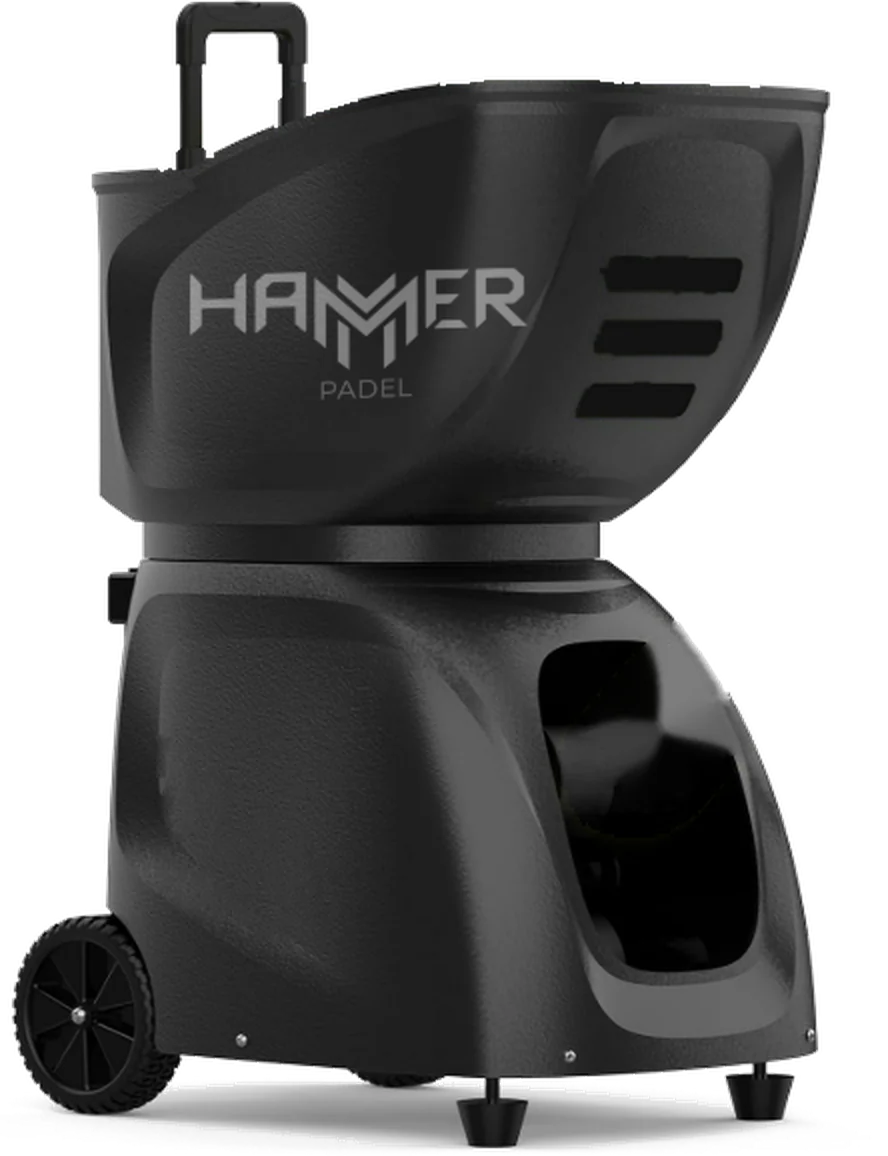
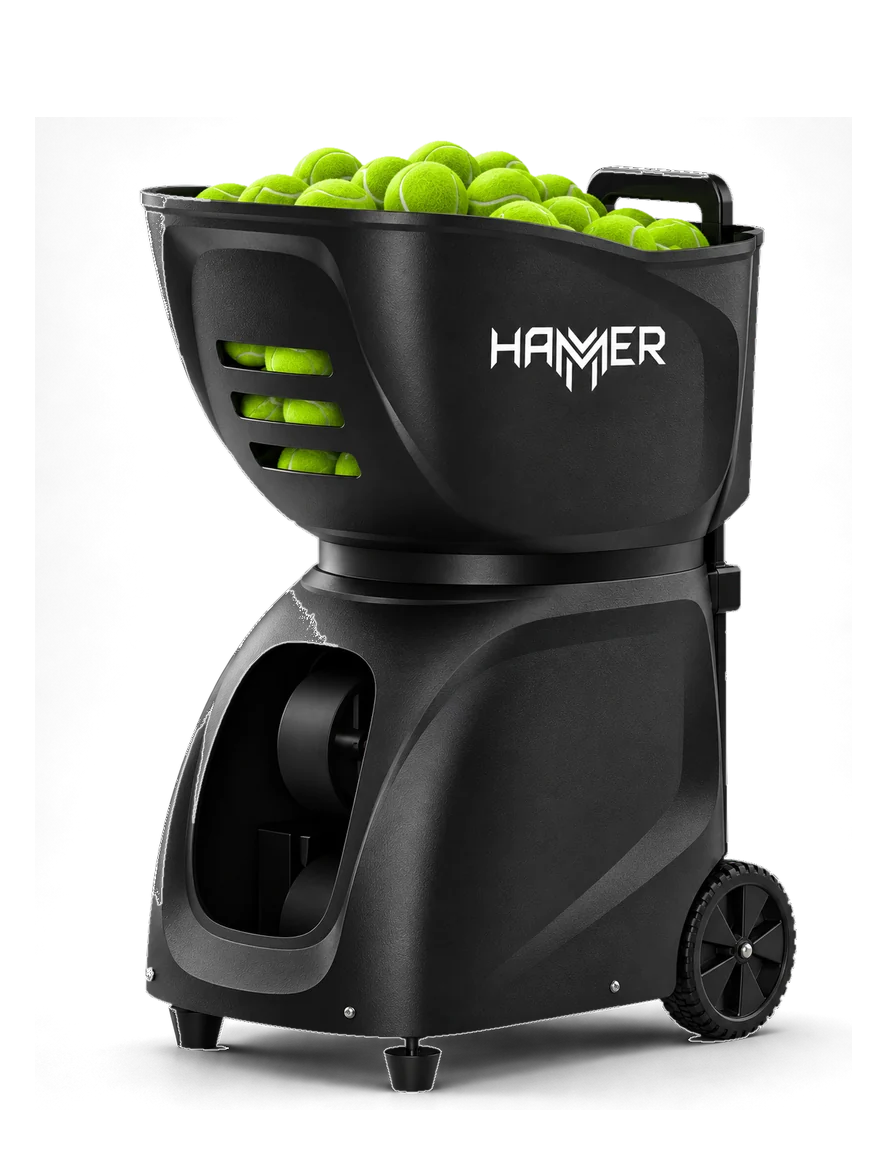
Fotos oficiales de la Hammer X MAX recortadas: portada y galería en /comprar
Claude-Session: https://claude.ai/code/session_0149wBixC6gYdVHkyiPBvfHJ

diff --git a/src/app/globals.css b/src/app/globals.css
@@ -536,6 +536,24 @@ html.hp-static .rent__copy { position: relative; left: auto; bottom: auto; paddi
   padding: clamp(1.25rem, 5vw, 3rem); box-sizing: border-box;
 }
 .split .photo--estudio, .product-page .photo--estudio { max-width: 28rem; }
+/* Fotos oficiales recortadas (fondo transparente) sobre un foco suave */
+.photo--recorte img {
+  background: radial-gradient(62% 52% at 50% 46%, #4a4f57 0%, #2a2d33 48%, #17181c 100%);
+  padding: clamp(1rem, 4vw, 2.5rem); box-sizing: border-box;
+}
+.split .photo--recorte, .product-page .photo--recorte { max-width: 28rem; }
+.galeria { display: grid; gap: 0.75rem; max-width: 28rem; }
+.galeria__miniaturas { display: flex; gap: 0.75rem; list-style: none; margin: 0; padding: 0; }
+.galeria__mini { display: grid; gap: 0.35rem; justify-items: center; width: 7.5rem; white-space: nowrap; padding: 0.4rem; border-radius: 12px;
+  background: #1c1d22; border: 1px solid var(--sc-line, #33353c); color: var(--sc-ink-soft); cursor: pointer;
+  font-family: var(--sc-font-mono); font-size: var(--sc-t-xs); }
+.galeria__mini img { width: 100%; height: auto; border-radius: 8px; background: radial-gradient(70% 60% at 50% 46%, #4a4f57, #1c1d22); }
+.galeria__mini[aria-pressed="true"] { border-color: var(--sc-accent, #d4f03c); color: var(--sc-ink); }
+.galeria__mini:focus-visible { outline: 2px solid var(--sc-accent, #d4f03c); outline-offset: 2px; }
+@media (max-width: 860px) {
+  .photo--recorte img { max-height: 58svh; object-fit: contain; }
+  .photo--recorte, .galeria { justify-self: center; }
+}
 @media (max-width: 860px) {
   .photo--estudio img { max-height: 58svh; object-fit: contain; }
   .photo--estudio { justify-self: center; }

diff --git a/src/components/ProductGallery.tsx b/src/components/ProductGallery.tsx
@@ -1,0 +1,39 @@
+"use client";
+
+import { useState } from "react";
+
+export type FotoGaleria = { src: string; alt: string; ancho: number; alto: number; nombre: string };
+
+/**
+ * Galería sencilla de fotos de producto: una grande y miniaturas para cambiarla.
+ * Sin JS se ve la primera foto y las miniaturas como imágenes normales.
+ */
+export function ProductGallery({ fotos, className = "" }: { fotos: FotoGaleria[]; className?: string }) {
+  const [activa, setActiva] = useState(0);
+  const f = fotos[activa];
+  return (
+    <div className={`galeria ${className}`}>
+      <figure className="photo photo--recorte">
+        {/* eslint-disable-next-line @next/next/no-img-element -- export estático, imagen ya optimizada */}
+        <img src={f.src} alt={f.alt} width={f.ancho} height={f.alto} loading="eager" fetchPriority="high" decoding="async" />
+      </figure>
+      <ul className="galeria__miniaturas" aria-label="Otras vistas de la máquina">
+        {fotos.map((g, i) => (
+          <li key={g.src}>
+            <button
+              type="button"
+              className="galeria__mini"
+              aria-pressed={i === activa}
+              aria-label={`Ver ${g.nombre}`}
+              onClick={() => setActiva(i)}
+            >
+              {/* eslint-disable-next-line @next/next/no-img-element -- miniatura */}
+              <img src={g.src} alt="" width={g.ancho} height={g.alto} loading="lazy" decoding="async" />
+              <span>{g.nombre}</span>
+            </button>
+          </li>
+        ))}
+      </ul>
+    </div>
+  );
+}

diff --git a/src/app/comprar/page.tsx b/src/app/comprar/page.tsx
@@ -2,7 +2,7 @@ import type { Metadata } from "next";
 import Link from "next/link";
 import { Price } from "@/components/Price";
 import { ProductJsonLd } from "@/components/ProductJsonLd";
-import { ProductPhoto } from "@/components/ProductPhoto";
+import { ProductGallery } from "@/components/ProductGallery";
 import { alquiler, maquina } from "@/content/catalogo";
 
 export const metadata: Metadata = {
@@ -16,13 +16,14 @@ export default function Comprar() {
     <div className="page">
       <ProductJsonLd p={maquina} />
       <div className="product-page">
-        <ProductPhoto
-          src="/medios/maquina/maquina.webp"
-          alt="Máquina lanzapelotas Hammer X MAX, de color negro, con el logotipo Hammer Padel, asa y ruedas"
-          ancho={888}
-          alto={1156}
-          className="photo--estudio"
-        prioridad
+        <ProductGallery
+          className="product-page__fotos"
+          fotos={[
+            { src: "/medios/maquina/maquina.webp", nombre: "Vista frontal", ancho: 888, alto: 1156,
+              alt: "Máquina lanzapelotas Hammer X MAX, negra, con el logotipo HAMMER en la tolva llena de pelotas, la boca de lanzamiento y las ruedas" },
+            { src: "/medios/maquina/maquina-lateral.webp", nombre: "Vista lateral", ancho: 888, alto: 1156,
+              alt: "Hammer X MAX vista desde el otro lado, con la boca de lanzamiento a la derecha, la tolva con ventanas y una rueda" },
+          ]}
         />
         <div className="stack">
           <p className="kicker">Máquina lanzapelotas de pádel</p>

diff --git a/src/app/page.tsx b/src/app/page.tsx
@@ -238,10 +238,10 @@ export default function Inicio() {
         <div className="wrap split">
           <ProductPhoto
             src="/medios/maquina/maquina.webp"
-            alt="Máquina lanzapelotas Hammer X MAX, de color negro, con el logotipo Hammer Padel, asa y ruedas"
+            alt="Máquina lanzapelotas Hammer X MAX, negra, con el logotipo HAMMER en la tolva llena de pelotas, la boca de lanzamiento y las ruedas"
             ancho={888}
             alto={1156}
-            className="photo--estudio"
+            className="photo--recorte"
           />
           <div className="stack" data-sc-in>
             <p className="kicker">¿Prefieres tenerla siempre?</p>
